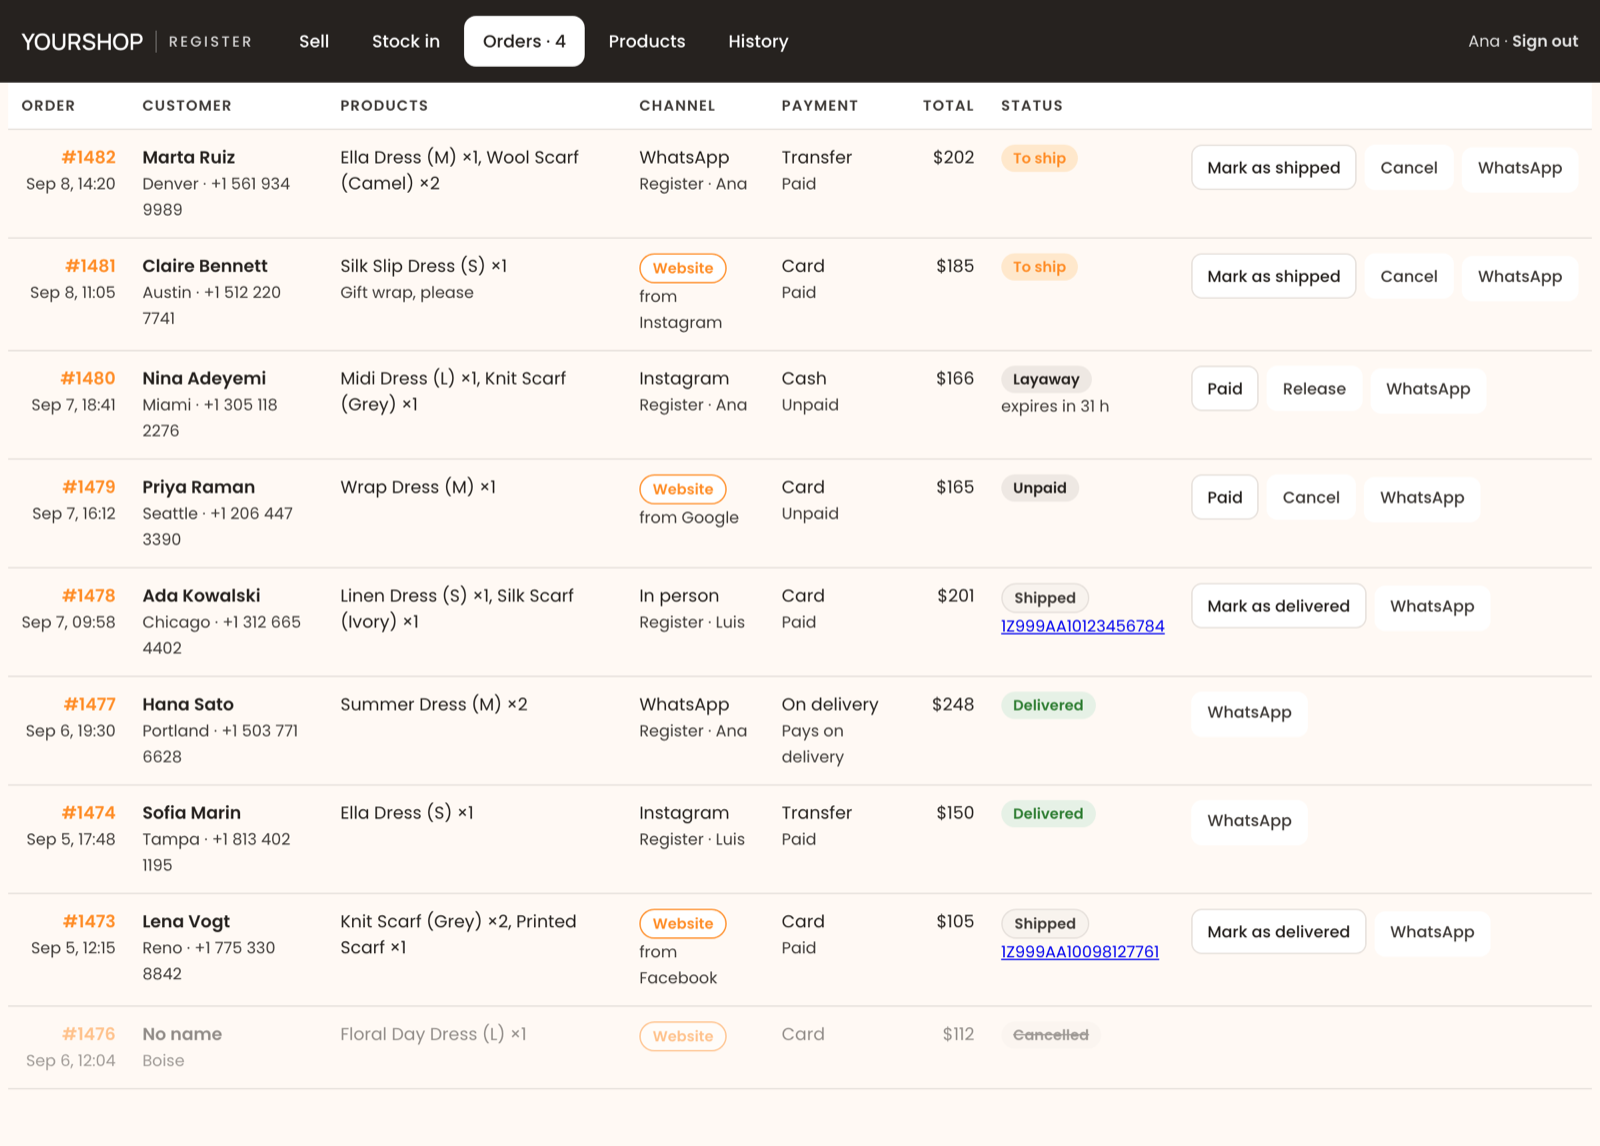
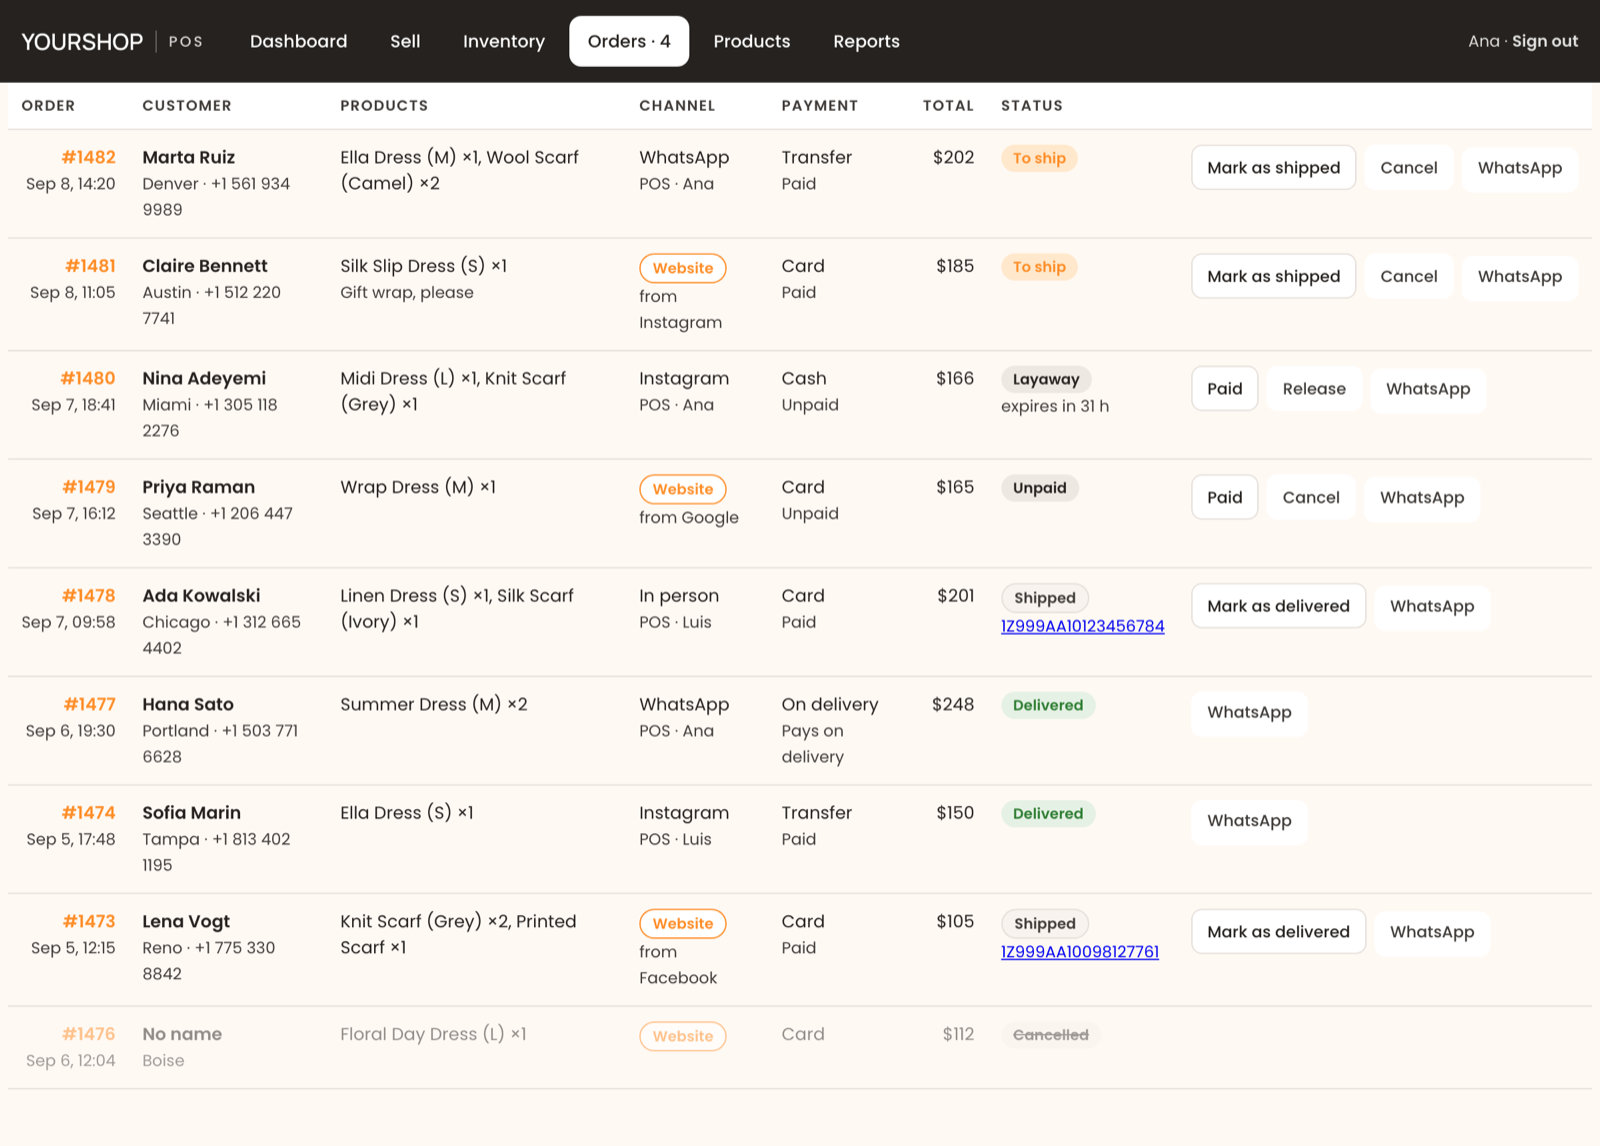
0.37.2: el logotipo de la marca en la cabecera de los ajustes
La cabecera de WooCommerce > Dox POS llevaba una D en un cuadro; ahora va el logotipo de
Dox POS tal cual viene del archivo de la marca (dox_pos_wordmark_svg), con el nombre dentro
del SVG y aria-label para quien use lector de pantalla. wp_kses ya deja pasar aria-label.

Las imágenes del directorio se rehicieron con las maquetas al día: la barra decía Register,
Stock in y History, que se llamaron POS, Inventory y Reports desde la 0.26, la 0.29 y la
0.37, y no salía la pestaña Dashboard. También el icono y el banner usan ahora el isotipo
del archivo de la marca en vez del redibujo, la captura de ajustes lleva el logotipo y el
texto de las fuentes de la 0.37.1, la de pedidos dice POS en el origen, y la del formulario
de producto ya no enseña los botones All to 1 y All to 0, retirados en la 0.31.2.

diff --git a/assets/css/ajustes.css b/assets/css/ajustes.css
@@ -36,7 +36,7 @@ body.woocommerce_page_dox-pos #wpbody-content{padding-bottom:0}
 @media screen and (max-width:600px){.dp-head{position:static}}
 .dp-head-row{display:flex;flex-wrap:wrap;align-items:center;gap:12px 16px;padding:14px 32px 0;min-height:64px}
 .dp-brandmark{display:flex;align-items:center;gap:12px}
-.dp-mark{width:34px;height:34px;border-radius:10px;background:var(--dp-ink);color:#fff;display:grid;place-items:center;font-weight:700;font-size:16px;letter-spacing:-.02em;flex:none}
+.dp-wordmark{height:25px;width:auto;display:block;flex:none}
 .dp-title{font-size:18px;font-weight:600;letter-spacing:-.01em;display:flex;align-items:center;gap:10px;line-height:1.2}
 .dp-pill{font-size:11px;font-weight:500;color:var(--dp-muted);background:var(--dp-sunk);border:1px solid var(--dp-line);border-radius:999px;padding:2px 8px;font-variant-numeric:tabular-nums;line-height:1.4}
 .dp-head-actions{margin-left:auto;display:flex;align-items:center;gap:10px;flex-wrap:wrap}

diff --git a/includes/settings.php b/includes/settings.php
@@ -993,7 +993,7 @@ function dox_pos_users_with_access( $limit = 6 ) {
 function dox_pos_svg_tags() {
 	$shape = array( 'fill' => true, 'stroke' => true, 'stroke-width' => true, 'stroke-linecap' => true, 'stroke-linejoin' => true );
 	return array(
-		'svg'      => array_merge( $shape, array( 'class' => true, 'viewbox' => true, 'width' => true, 'height' => true, 'xmlns' => true, 'aria-hidden' => true, 'focusable' => true, 'role' => true ) ),
+		'svg'      => array_merge( $shape, array( 'class' => true, 'viewbox' => true, 'width' => true, 'height' => true, 'xmlns' => true, 'aria-hidden' => true, 'aria-label' => true, 'focusable' => true, 'role' => true ) ),
 		'g'        => $shape,
 		'path'     => array_merge( $shape, array( 'd' => true ) ),
 		'circle'   => array_merge( $shape, array( 'cx' => true, 'cy' => true, 'r' => true ) ),
@@ -1002,6 +1002,18 @@ function dox_pos_svg_tags() {
 		'polyline' => array_merge( $shape, array( 'points' => true ) ),
 		'polygon'  => array_merge( $shape, array( 'points' => true ) ),
 	);
+}
+
+/**
+ * El logotipo de Dox POS: el isotipo de Dox Studio y el nombre, tal cual vienen del archivo de la
+ * marca. Lleva los colores puestos (son dos) y el tamaño lo decide el CSS por la altura.
+ *
+ * @return string
+ */
+function dox_pos_wordmark_svg() {
+	return '<svg class="dp-wordmark" viewBox="0 0 284.16 67.15" xmlns="http://www.w3.org/2000/svg" role="img" aria-label="Dox POS">'
+		. '<polygon fill="#141313" points="34.25 0 8.56 14.82 34.25 29.66 34.25 59.31 59.93 44.49 59.93 14.82 34.25 0"/><path fill="#FF8D27" d="M6.42,53.14h0c8.56,4.94,19.26-1.24,19.26-11.12h0c0-4.59-2.45-8.83-6.42-11.12h0C10.7,25.95,0,32.13,0,42.01c0,4.59,2.45,8.83,6.42,11.13"/><path fill="#141313" d="M109.53,8.08v43.05h-7.99v-4.1c-2.51,3.53-6.62,5.7-12.1,4.7-8.07-1.47-14.35-8.22-14.62-16.41-.32-9.76,7.53-17.81,17.22-17.81,4.19,0,7.4,2,9.5,4.95v-14.38h7.99ZM100.85,34.75c0-5.31-3.67-9.57-8.71-9.57s-9.14,4.29-9.14,9.57,4.16,9.53,9.14,9.53,8.71-4.26,8.71-9.53Z"/><path fill="#141313" d="M112.97,34.75c0-9.57,7.34-17.3,16.38-17.3s16.38,7.73,16.38,17.3-7.34,17.23-16.38,17.23-16.38-7.73-16.38-17.23ZM137.73,34.75c0-5.08-3.77-9.3-8.39-9.3s-8.39,4.32-8.39,9.3,3.83,9.24,8.39,9.24,8.39-4.26,8.39-9.24Z"/><path fill="#141313" d="M156.86,34.68l-11.89-16.35h9.86l6.95,9.53,6.98-9.53h9.86l-11.89,16.35,11.99,16.45h-9.86l-7.08-9.7-7.04,9.7h-9.86l11.99-16.45Z"/><path fill="#FF8D27" d="M198.15,19.21c2.01-1.04,4.28-1.57,6.81-1.57,2.89,0,5.53.71,7.92,2.14,2.39,1.43,4.27,3.42,5.63,5.99,1.36,2.57,2.05,5.52,2.05,8.85s-.68,6.31-2.05,8.94c-1.37,2.63-3.24,4.68-5.63,6.14-2.39,1.47-5.03,2.2-7.92,2.2-2.53,0-4.78-.51-6.75-1.54-1.97-1.02-3.57-2.3-4.82-3.82v20.6h-6.87V18.19h6.87v4.88c1.16-1.53,2.75-2.81,4.76-3.85ZM212.15,28.7c-.94-1.67-2.19-2.93-3.73-3.79-1.55-.86-3.2-1.29-4.97-1.29s-3.36.44-4.91,1.32c-1.55.88-2.79,2.17-3.73,3.85s-1.42,3.67-1.42,5.96.47,4.29,1.42,5.99c.94,1.71,2.19,3,3.73,3.89,1.54.88,3.18,1.32,4.91,1.32s3.42-.45,4.97-1.35c1.54-.9,2.79-2.22,3.73-3.95.94-1.73,1.42-3.73,1.42-6.02s-.47-4.27-1.42-5.93Z"/><path fill="#FF8D27" d="M230.07,49.78c-2.53-1.42-4.52-3.43-5.96-6.02s-2.17-5.59-2.17-9,.74-6.36,2.23-8.97c1.48-2.61,3.51-4.62,6.08-6.02,2.57-1.4,5.44-2.11,8.61-2.11s6.04.7,8.61,2.11c2.57,1.41,4.6,3.41,6.08,6.02,1.48,2.61,2.23,5.6,2.23,8.97s-.76,6.36-2.29,8.97c-1.53,2.61-3.6,4.63-6.23,6.05-2.63,1.43-5.53,2.14-8.7,2.14s-5.96-.71-8.49-2.14ZM243.53,44.69c1.54-.84,2.8-2.11,3.76-3.79.96-1.69,1.45-3.73,1.45-6.14s-.46-4.45-1.39-6.11c-.92-1.67-2.15-2.92-3.67-3.76-1.53-.84-3.17-1.26-4.94-1.26s-3.4.42-4.91,1.26-2.7,2.1-3.58,3.76c-.88,1.67-1.33,3.7-1.33,6.11,0,3.57.91,6.33,2.74,8.28,1.83,1.95,4.13,2.92,6.9,2.92,1.77,0,3.42-.42,4.97-1.26Z"/><path fill="#FF8D27" d="M264.43,50.5c-2.07-.94-3.7-2.23-4.91-3.85-1.2-1.63-1.85-3.44-1.93-5.45h7.11c.12,1.41.79,2.58,2.02,3.52,1.22.94,2.76,1.42,4.61,1.42s3.42-.37,4.49-1.11c1.06-.74,1.6-1.7,1.6-2.86,0-1.24-.59-2.17-1.78-2.77-1.18-.6-3.06-1.26-5.63-1.99-2.49-.68-4.52-1.34-6.08-1.99-1.57-.64-2.92-1.63-4.07-2.95-1.14-1.32-1.72-3.07-1.72-5.24,0-1.77.52-3.38,1.57-4.85,1.04-1.47,2.54-2.62,4.49-3.46,1.95-.84,4.19-1.26,6.72-1.26,3.77,0,6.82.95,9.12,2.86,2.31,1.91,3.54,4.51,3.7,7.8h-6.87c-.12-1.48-.72-2.67-1.81-3.55-1.08-.88-2.55-1.32-4.4-1.32s-3.19.34-4.16,1.02c-.96.68-1.45,1.59-1.45,2.71,0,.88.32,1.63.96,2.23.64.6,1.42,1.08,2.35,1.42.92.34,2.29.77,4.1,1.29,2.41.64,4.39,1.29,5.93,1.96,1.54.66,2.88,1.64,4,2.92,1.12,1.29,1.71,2.99,1.75,5.12,0,1.89-.52,3.57-1.57,5.06-1.04,1.49-2.52,2.65-4.43,3.49-1.91.84-4.15,1.26-6.72,1.26s-4.95-.47-7.02-1.42Z"/>'
+		. '</svg>';
 }
 
 function dox_pos_icon( $name, $css = '' ) {
@@ -1172,8 +1184,7 @@ function dox_pos_settings_page() {
 		<header class="dp-head">
 			<div class="dp-head-row">
 				<div class="dp-brandmark">
-					<span class="dp-mark" aria-hidden="true">D</span>
-					<h1 class="dp-title">Dox POS <span class="dp-pill"><?php echo esc_html( DOX_POS_VERSION ); ?></span></h1>
+					<h1 class="dp-title"><?php echo wp_kses( dox_pos_wordmark_svg(), dox_pos_svg_tags() ); ?> <span class="dp-pill"><?php echo esc_html( DOX_POS_VERSION ); ?></span></h1>
 				</div>
 				<div class="dp-head-actions">
 					<a class="dp-btn dp-btn-ghost dp-urlchip" href="<?php echo esc_url( dox_pos_url() ); ?>" target="_blank" rel="noopener"><?php echo wp_kses( dox_pos_icon( 'external' ), dox_pos_svg_tags() ); ?><span><?php echo esc_html( $host . '/' . $slug ); ?></span></a>

diff --git a/dox-pos.php b/dox-pos.php
@@ -3,7 +3,7 @@
  * Plugin Name:       Dox POS
  * Plugin URI:        https://github.com/davidzoque/dox-pos
  * Description:       The register for a shop that sells on WhatsApp and Instagram: record sales, layaways and incoming stock from the frontend (/pos), without wp-admin, with orders, products, history, a stock ledger and Excel files. Every sale is a WooCommerce order, so stock goes down on its own. With Dox POS Pro, the business assistant.
- * Version:           0.37.1
+ * Version:           0.37.2
  * Requires at least: 6.5
  * Requires PHP:      8.0
  * Author:            Dox Studio
@@ -22,7 +22,7 @@ if ( ! defined( 'ABSPATH' ) ) {
 	exit;
 }
 
-define( 'DOX_POS_VERSION', '0.37.1' );
+define( 'DOX_POS_VERSION', '0.37.2' );
 define( 'DOX_POS_FILE', __FILE__ );
 define( 'DOX_POS_PATH', plugin_dir_path( __FILE__ ) );
 define( 'DOX_POS_URL', plugin_dir_url( __FILE__ ) );
